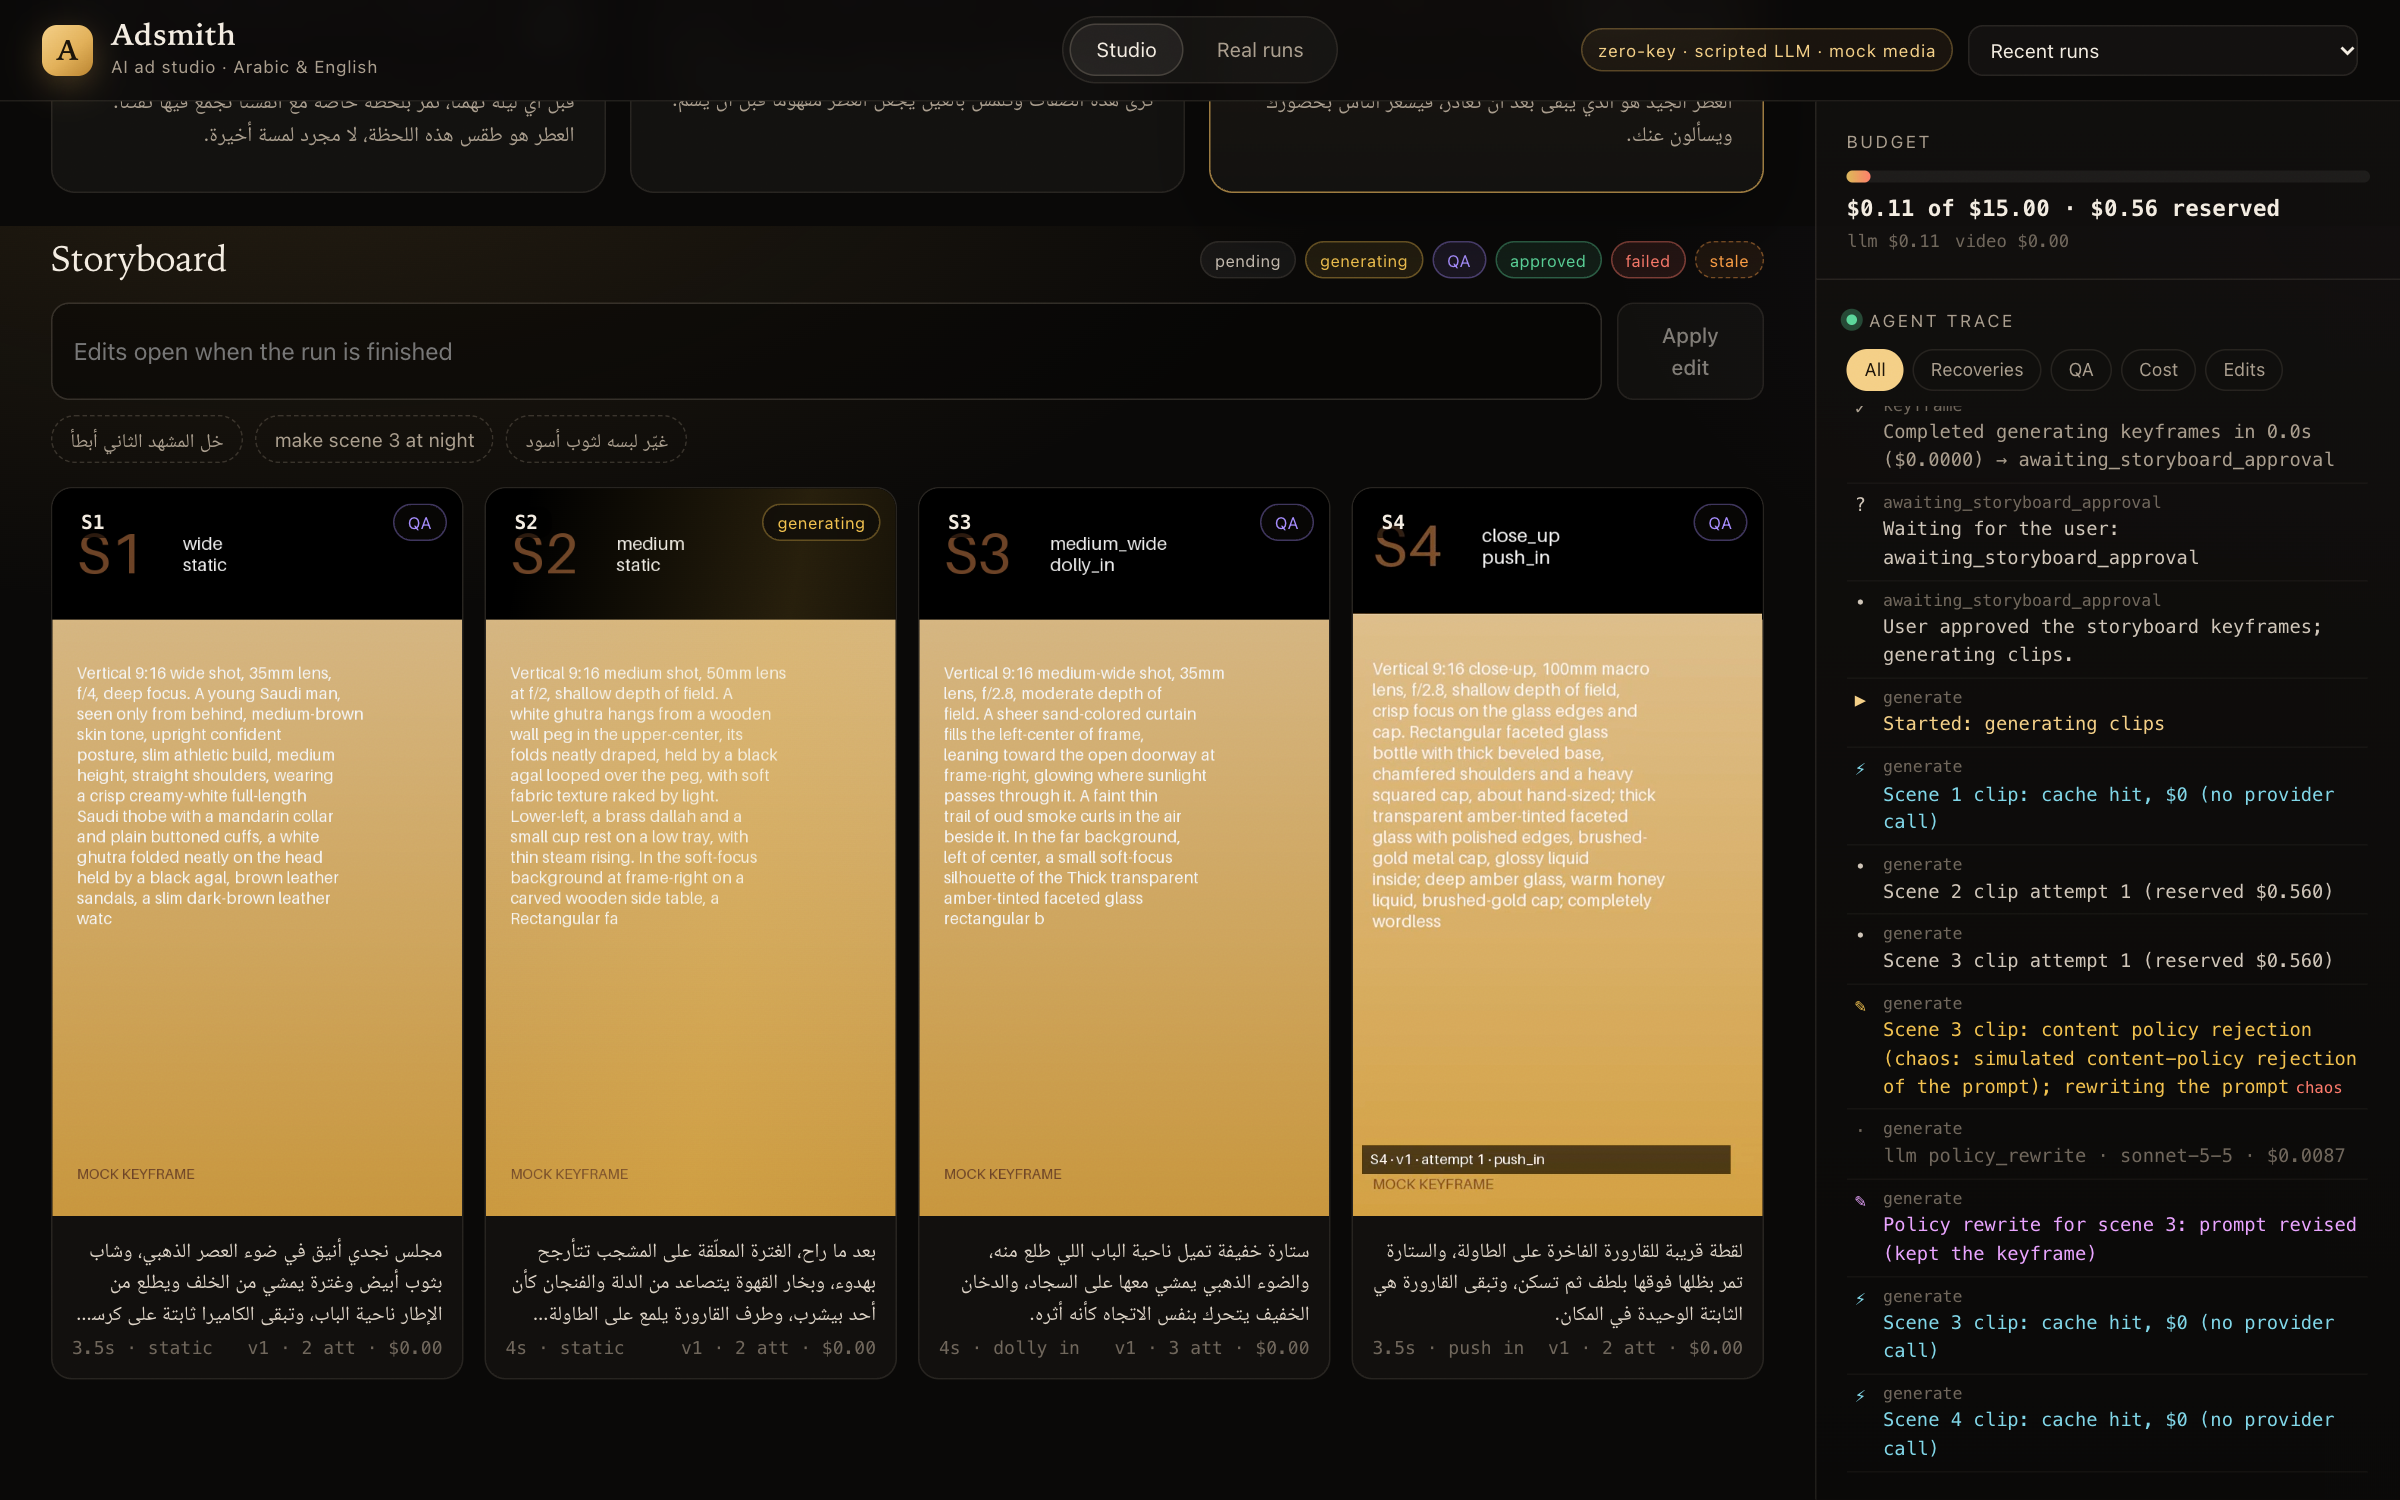
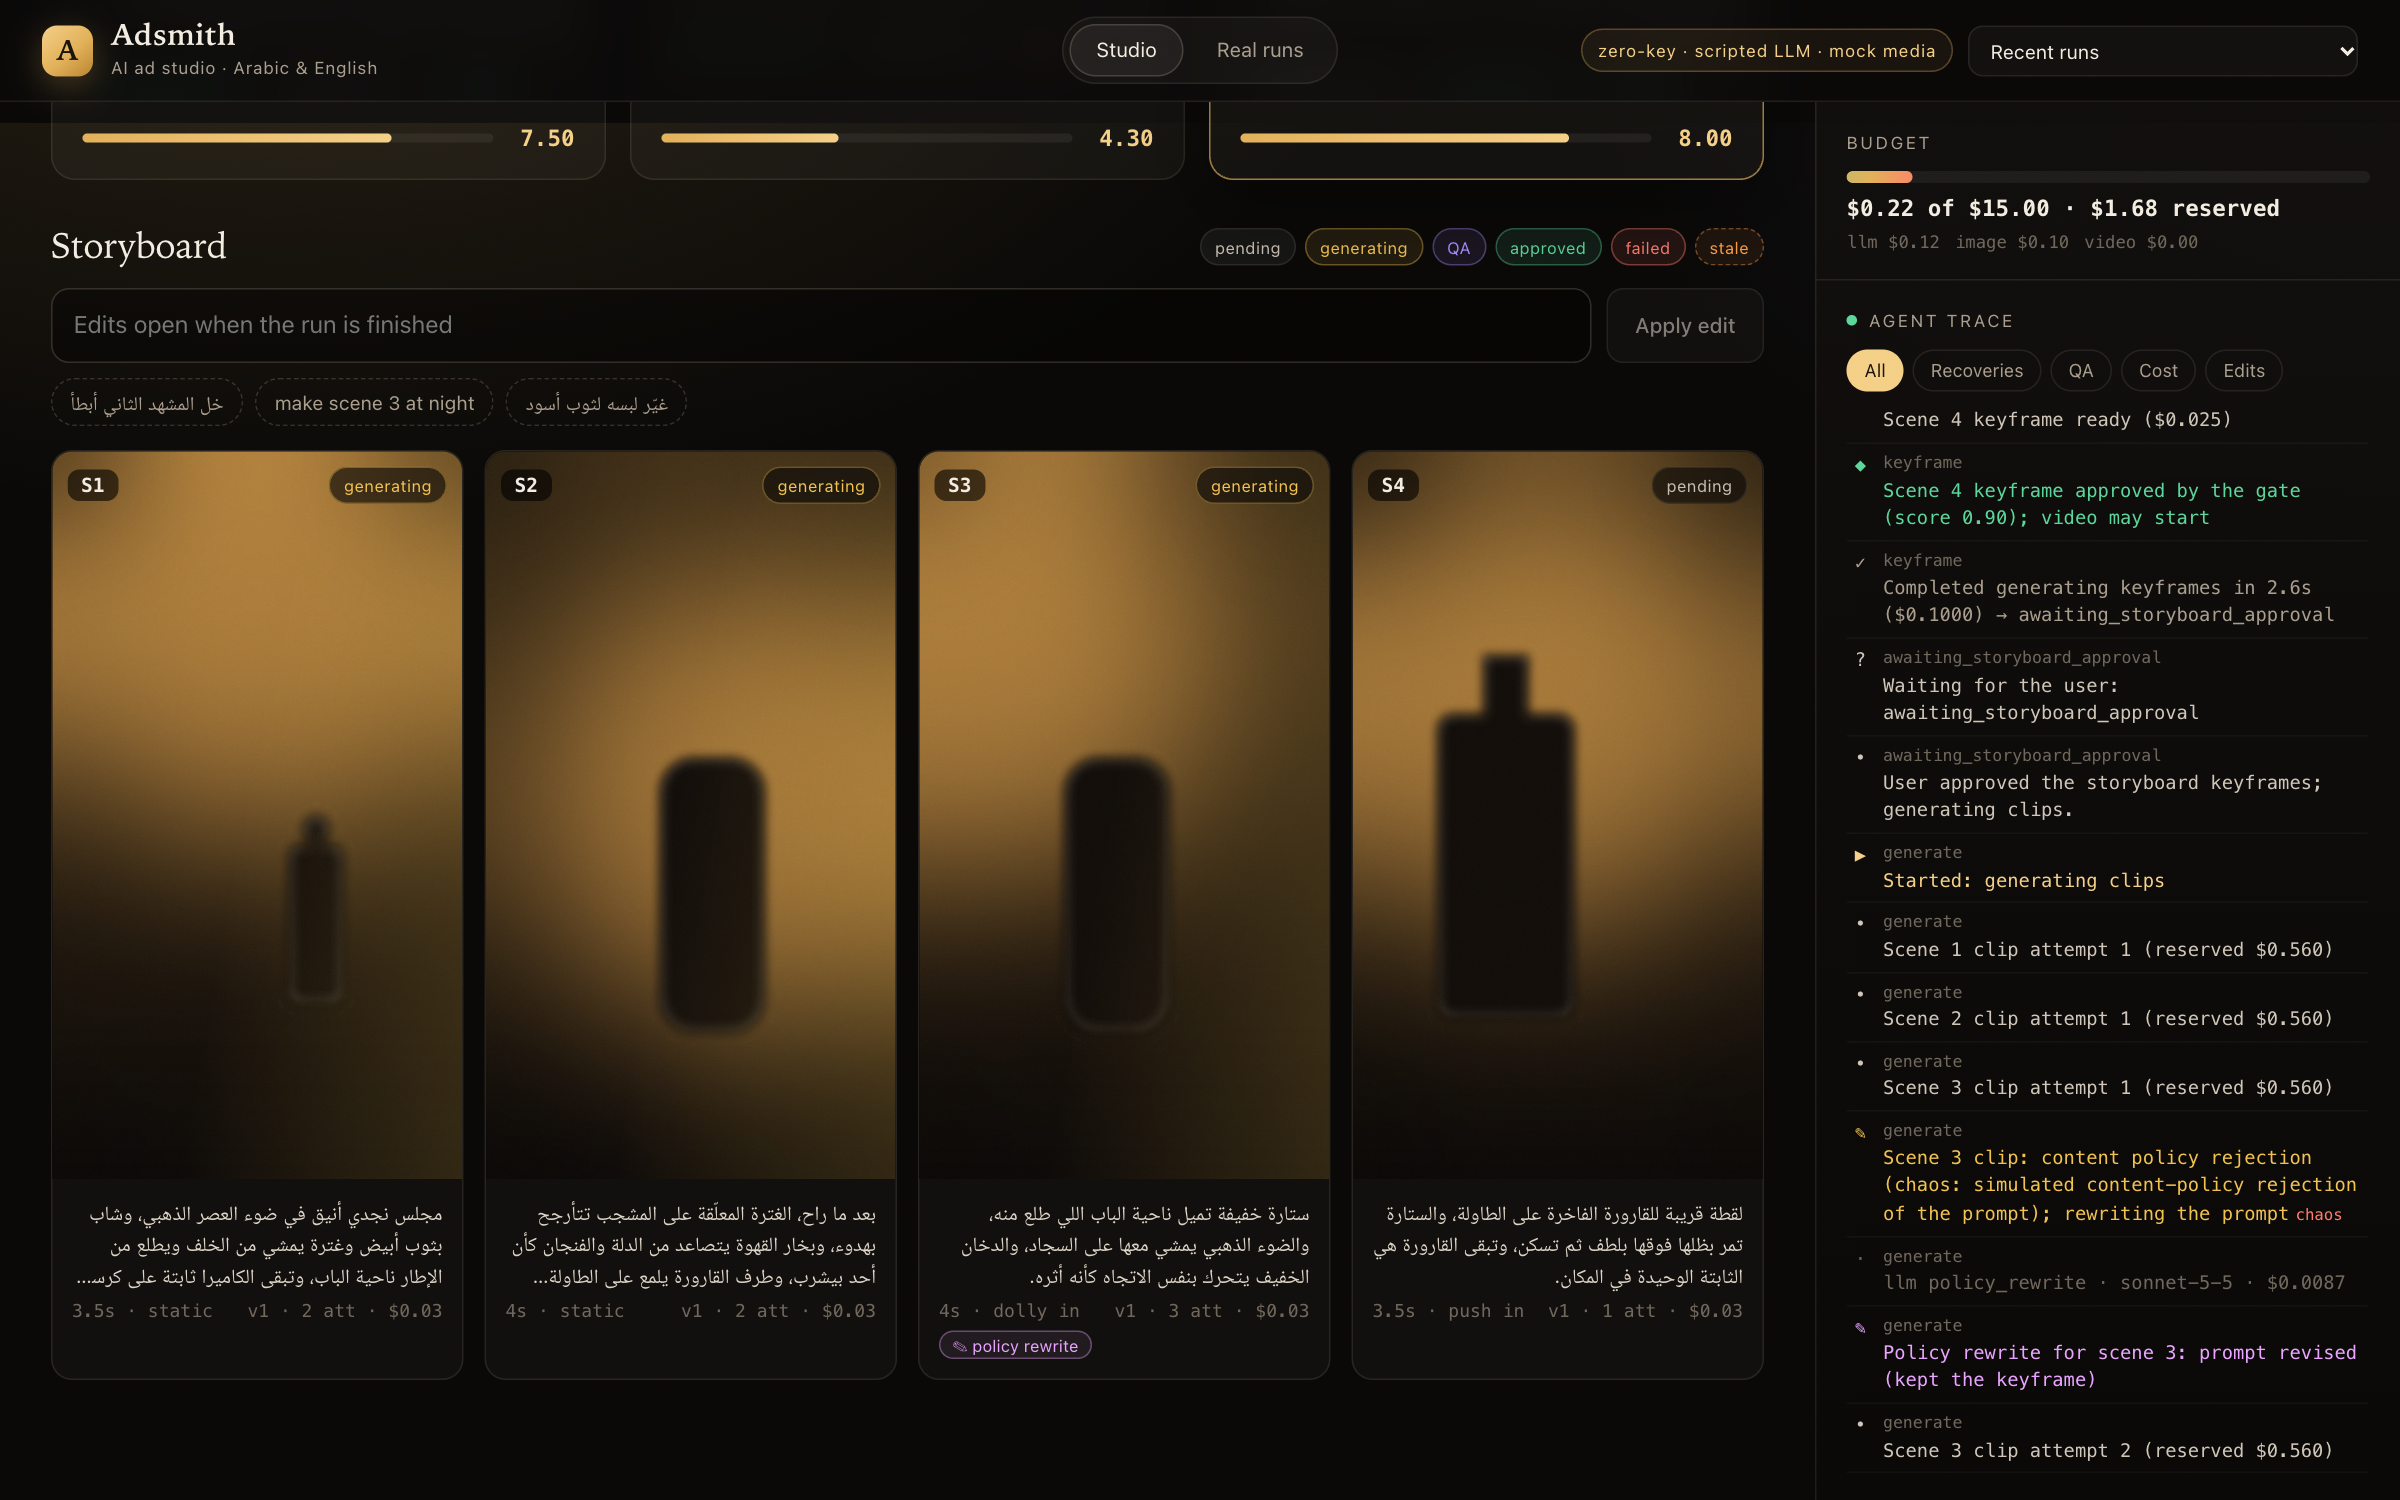
feat(ui): text-free mock keyframes; M10 screenshots and progress

diff --git a/src/adsmith/providers/media/mock.py b/src/adsmith/providers/media/mock.py
@@ -113,11 +113,12 @@ def _palette(label: MediaLabel, seed: str) -> list[tuple[int, int, int]]:
     return [(digest[i], digest[i + 1], digest[i + 2]) for i in range(0, 9, 3)]
 
 
-def render_card(job: ImageJob, path: Path) -> None:  # noqa: PLR0915 - one linear drawing
+def render_card(job: ImageJob, path: Path) -> None:
     """A cinematic *abstract* frame instead of a text dump: the bible palette as a graded
     background, a soft key light, a subject silhouette sized by shot type, vignette and grain.
-    No prompt text is drawn (Arabic would need shaping), but every visual parameter is derived
-    from the prompt's hash, so an edited prompt visibly yields a different keyframe."""
+    No text is drawn (the UI labels scenes; Arabic would need shaping), but every visual
+    parameter is derived from the prompt's hash, so an edited prompt visibly yields a different
+    keyframe."""
     w, h = job.width, job.height
     colors = _palette(job.label, job.prompt)
     digest = hashlib.sha256(job.prompt.encode()).digest()
@@ -184,17 +185,6 @@ def render_card(job: ImageJob, path: Path) -> None:  # noqa: PLR0915 - one linea
     img = Image.composite(img, Image.new("RGB", (w, h), (0, 0, 0)), vig)
     noise = Image.effect_noise((w, h), 18).convert("RGB")
     img = Image.blend(img, noise, 0.05)
-    draw = ImageDraw.Draw(img)
-    caption = f"{shot.replace('_', ' ')} · {job.label.camera.replace('_', ' ')}"
-    draw.text(
-        (int(w * 0.06), int(h * 0.94)),
-        caption.upper(),
-        font=_font(max(10, h // 48)),
-        fill=(230, 222, 210),
-    )
-    draw.text(
-        (int(w * 0.06), int(h * 0.04)), "MOCK", font=_font(max(9, h // 60)), fill=(200, 190, 175)
-    )
     img.save(path)
 
 

diff --git a/docs/PROGRESS.md b/docs/PROGRESS.md
@@ -603,3 +603,29 @@ show, trace, export, list, history, resume. `serve` arrives in M10.
 **Known limit (fixed right after, see ADR-0015 addendum)**: with real fal, a job in flight when the process dies is still billed and resume
 resubmits it (the in-flight handle lives in memory). Fix: persist the fal request id in the account
 ledger at submit time and resume polling it (MORE_TIME #12).
+
+## Post-M9: crash-safe fal jobs (2026-11-05)
+The fal request id is persisted on the attempt right after submit (before polling); resume polls
+that request and settles the dead process's wallet reservation; it resubmits only if fal reports it
+gone or failed. Interrupted attempts no longer shift the keyframe seed. Tests: provider level and end
+to end (pipeline cancelled after a clip submit, resumed in a fresh runtime: 0 duplicate submits).
+ADR-0015 addendum; MORE_TIME #12 done.
+
+## M10: Web UI (2026-11-05)
+**Built**: `api/app.py` (FastAPI: REST actions, SSE trace tailed from the event store, Production
+Pack zip, media served from `cas/` and `runs/` only), `api/view.py` (one view model per run),
+`api/gallery.py` + `config/real_runs.toml` (majlis ad, single take, curtain before → after), static
+single page (`api/static/`: dark cinematic design, serif display + sans body, bundled Noto Naskh for
+all Arabic via `unicode-range`, `dir=auto` on user content). Flow: request → live pipeline →
+3 concept cards (insight, judge score bar, producibility/originality/cliché flags, judge's pick) →
+storyboard with status chips, per-scene recovery chips and hover-to-play clips → edit box with the
+blast radius drawn on the cards (depth tag + glow, untouched = $0) → final player + end card +
+Production Pack. Side panel: budget meter, live trace with filters (recoveries/QA/cost/edits).
+**Changed while reviewing the screenshots**: the judge now scores concepts in interactive mode too
+(recommends; the human picks), mock keyframes became text-free abstract cinematic frames (the old
+text cards showed Arabic as boxes), blast tags got solid backgrounds, "Apply edit" no longer wraps.
+**Security bug found by a test**: `/files/` served anything in the data dir, including the SQLite
+DB; now media folders and media types only.
+**Screenshots**: `docs/screenshots/{1_concepts,2_storyboard_midrun,3_final_player,
+4_edit_blast_radius,4b_edit_done,5_real_runs_gallery}.png` (Playwright + installed Chrome,
+`scripts/ui_screenshots.py`). 455 tests.
